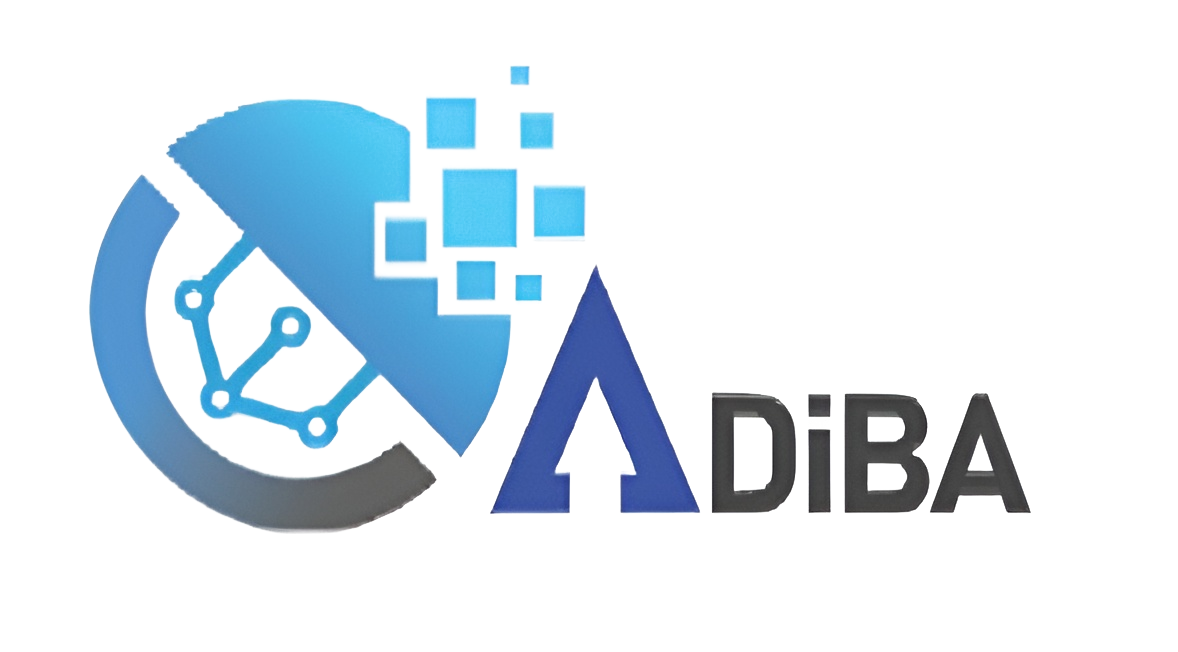
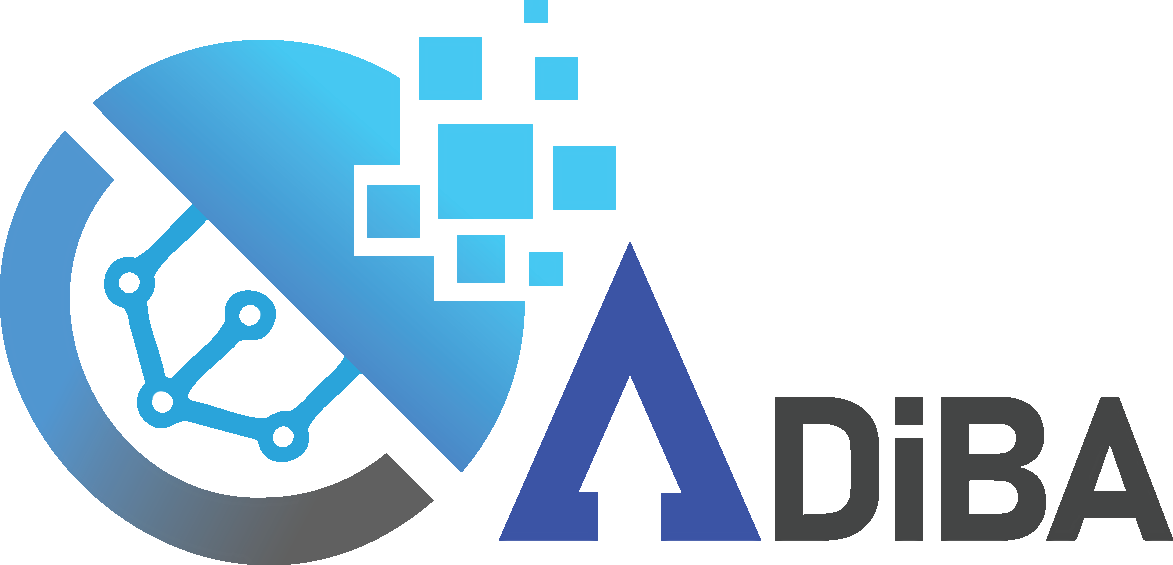
rework child key props and next/image issue

diff --git a/frontend/src/pages/analytics-product-modeling.js b/frontend/src/pages/analytics-product-modeling.js
@@ -1,4 +1,4 @@
-import { Link, Paper, TableBody, TableCell, TableContainer, TableHead, TableRow, Typography } from "@mui/material";
+import { Link, Paper, Table, TableBody, TableCell, TableContainer, TableHead, TableRow, Typography } from "@mui/material";
 import { Box } from "@mui/system";
 import Head from "next/head";
 import { DashboardLayout } from "../components/dashboard-layout"
@@ -106,42 +106,41 @@ const Page = () => {
                 }}
             >
                 <TableContainer component={Paper}>
-                    <TableHead>
-                        {label.map((item) => {
-                            return (
-                                <TableCell>
-                                    {item}
-                                </TableCell>
-                            )
-                        })}
-                    </TableHead>
-                    {data.map((item) => {
+                    <Table>
+                        <TableHead>
+                            <TableRow>
+                                {label.map((item, index) => {
+                                    return (
+                                        <TableCell key={`label_${index}`}>
+                                            {item}
+                                        </TableCell>
+                                    )
+                                })}
+                            </TableRow>
+                        </TableHead>
+                        <TableBody>
+                            {data.map((item, id) => {
 
-                        const maxRows = Math.max(item.subtask.length, item.detail.length, item.template.length);
-                        console.log(maxRows)
-                        const detailSpan = Math.ceil(maxRows / item.detail.length);
-                        const detailIndex = 1;
+                                const maxRows = Math.max(item.subtask.length, item.detail.length, item.template.length);
+                                return (
 
-                        return (
-                            <>
-                                {
                                     (item.subtask.length == maxRows) ? (
                                         item.subtask.map((subtask, index) => (
-                                            <TableRow>
+                                            <TableRow key={`row_${index}`}>
                                                 {(index == 0) ? (
-                                                    <TableCell rowSpan={maxRows} sx={{verticalAlign:'top'}}>
+                                                    <TableCell key={`task_${id}_${index}`} rowSpan={maxRows} sx={{ verticalAlign: 'top' }}>
                                                         <Typography gutterBottom fontSize={14}>
                                                             {item.task}
                                                         </Typography>
                                                     </TableCell>
                                                 ) : null}
-                                                <TableCell sx={{verticalAlign:'top'}}>
+                                                <TableCell key={`subtask_${id}_${index}`} sx={{ verticalAlign: 'top' }}>
                                                     <Typography gutterBottom fontSize={14}>
                                                         {subtask}
                                                     </Typography>
                                                 </TableCell>
                                                 {(index < item.detail.length) ? (
-                                                    <TableCell hover sx={{verticalAlign:'top'}}>
+                                                    <TableCell key={`detail_${id}_${index}`} sx={{ verticalAlign: 'top' }}>
                                                         <Typography gutterBottom fontSize={14}>
                                                             {item.detail[index]}
                                                         </Typography>
@@ -149,7 +148,7 @@ const Page = () => {
                                                 ) : (<TableCell>
                                                 </TableCell>)}
                                                 {(index < item.template.length) ? (
-                                                    <TableCell sx={{verticalAlign:'top'}}>
+                                                    <TableCell key={`template_${id}_${index}`} sx={{ verticalAlign: 'top' }}>
                                                         <Link>
                                                             <Typography gutterBottom fontSize={14}>
                                                                 {item.template[index]}
@@ -162,29 +161,29 @@ const Page = () => {
                                         ))
                                     ) : (item.detail.length == maxRows) ? (
                                         item.detail.map((detail, index) => (
-                                            <TableRow>
+                                            <TableRow key={`row_${index}`}>
                                                 {(index == 0) ? (
-                                                    <TableCell rowSpan={maxRows}  sx={{verticalAlign:'top'}}>
+                                                    <TableCell key={`task_${id}_${index}`} rowSpan={maxRows} sx={{ verticalAlign: 'top' }}>
                                                         <Typography gutterBottom fontSize={14}>
                                                             {item.task}
                                                         </Typography>
                                                     </TableCell>
                                                 ) : null}
                                                 {(index < item.subtask.length) ? (
-                                                    <TableCell  sx={{verticalAlign:'top'}}>
+                                                    <TableCell key={`subtask_${id}_${index}`} sx={{ verticalAlign: 'top' }}>
                                                         <Typography gutterBottom fontSize={14}>
                                                             {item.subtask[index]}
                                                         </Typography>
                                                     </TableCell>
                                                 ) : (<TableCell>
                                                 </TableCell>)}
-                                                <TableCell  sx={{verticalAlign:'top'}}>
-                                                    <Typography gutterBottom fontSize={14}>
+                                                <TableCell sx={{ verticalAlign: 'top' }}>
+                                                    <Typography key={`detail_${id}_${index}`} gutterBottom fontSize={14}>
                                                         {detail}
                                                     </Typography>
                                                 </TableCell>
                                                 {(index < item.template.length) ? (
-                                                    <TableCell  sx={{verticalAlign:'top'}}>
+                                                    <TableCell key={`template_${id}_${index}`} sx={{ verticalAlign: 'top' }}>
                                                         <Link>
                                                             <Typography gutterBottom fontSize={14}>
                                                                 {item.template[index]}
@@ -199,16 +198,16 @@ const Page = () => {
                                     ) :
                                         (item.template.length == maxRows) ? (
                                             item.template.map((template, index) => (
-                                                <TableRow>
+                                                <TableRow key={`row_${index}`}>
                                                     {(index == 0) ? (
-                                                        <TableCell rowSpan={maxRows}  sx={{verticalAlign:'top'}}>
+                                                        <TableCell key={`task_${id}_${index}`} rowSpan={maxRows} sx={{ verticalAlign: 'top' }}>
                                                             <Typography gutterBottom fontSize={14}>
                                                                 {item.task}
                                                             </Typography>
                                                         </TableCell>
                                                     ) : null}
                                                     {(index < item.subtask.length) ? (
-                                                        <TableCell  sx={{verticalAlign:'top'}}>
+                                                        <TableCell key={`subtask_${id}_${index}`} sx={{ verticalAlign: 'top' }}>
                                                             <Typography gutterBottom fontSize={14}>
                                                                 {item.subtask[index]}
                                                             </Typography>
@@ -216,14 +215,14 @@ const Page = () => {
                                                     ) : (<TableCell>
                                                     </TableCell>)}
                                                     {(index < item.detail.length) ? (
-                                                        <TableCell  sx={{verticalAlign:'top'}}>
+                                                        <TableCell key={`detail_${id}_${index}`} sx={{ verticalAlign: 'top' }}>
                                                             <Typography gutterBottom fontSize={14}>
                                                                 {item.detail[index]}
                                                             </Typography>
                                                         </TableCell>
                                                     ) : (<TableCell>
                                                     </TableCell>)}
-                                                    < TableCell  sx={{verticalAlign:'top'}} >
+                                                    <TableCell key={`template_${id}_${index}`} sx={{ verticalAlign: 'top' }} >
                                                         <Link>
                                                             <Typography gutterBottom fontSize={14}>
                                                                 {template}
@@ -232,59 +231,10 @@ const Page = () => {
                                                     </TableCell>
                                                 </TableRow>
                                             ))
-                                        ) : null}
-                                {/* <TableRow>
-                                    <TableCell rowSpan={maxRows}>
-                                        <Typography>
-                                            {item.task}
-                                        </Typography>
-                                    </TableCell>
-                                    <TableCell>
-                                        <Typography>
-                                            {item.subtask[0]}
-                                        </Typography>
-                                    </TableCell>
-                                    <TableCell>
-                                        <Typography>
-                                            {item.detail[0]}
-                                        </Typography>
-                                    </TableCell>
-                                    <TableCell>
-                                        {item.template.map((template) => (
-                                            <Link>
-                                                <Typography>
-                                                    {template}
-                                                </Typography>
-                                            </Link>
-                                        )
-                                        )}
-                                    </TableCell>
-                                </TableRow>
-                                {item.subtask.slice(1).map((subtask, index) => {
-                                    console.log(item.detail[index + 1])
-
-                                    return (
-                                        <>
-                                            <TableRow>
-                                                <TableCell>
-                                                    {subtask}
-                                                </TableCell>
-                                                {(index < (item.detail.length)) ?
-                                                    (
-                                                        <TableCell>
-                                                            {item.detail[index + 1]}
-                                                        </TableCell>
-                                                    ) : null
-                                                }
-                                            </TableRow>
-
-                                        </>
-                                    )
-                                })} */}
-
-                            </>
-                        )
-                    })}
+                                        ) : null)
+                            })}
+                        </TableBody>
+                    </Table>
                 </TableContainer>
             </Box>
         </>

diff --git a/frontend/src/pages/crawler.js b/frontend/src/pages/crawler.js
@@ -92,7 +92,7 @@ const Page = () => {
                 pathname: "/retrain",
                 query: {
                     document: JSON.stringify(result.documents),
-                    queryArray:[...queryArray]
+                    queryArray: [...queryArray]
                 }
             }
         )
@@ -340,7 +340,7 @@ const Page = () => {
                                             onClick={handleSubmit}
                                             disabled={queryArray.length < 1 || url.length < 1 || loading}
                                             type="submit"
-                                           
+
                                         >
                                             {loading ? "Searching" : "Submit"}
                                         </Button>
@@ -406,25 +406,20 @@ const Page = () => {
                                             </TextField>
                                         </Box>
                                         {queryArray.map((query) => (
-                                            <Box
-                                                component="div"
+                                            <Chip
+                                                key={query}
+                                                label={query}
+                                                variant="filled"
                                                 sx={{
-                                                    display: 'inline',
-                                                }} >
-                                                <Chip
-                                                    label={query}
-                                                    variant="filled"
-                                                    sx={{
-                                                        m: '2px',
-                                                        p: '2px',
-                                                    }}
-                                                    onDelete={() => {
-                                                        removeQuery(query)
-                                                    }}
-                                                >
+                                                    m: '2px',
+                                                    p: '2px',
+                                                }}
+                                                onDelete={() => {
+                                                    removeQuery(query)
+                                                }}
+                                            >
 
-                                                </Chip>
-                                            </Box>
+                                            </Chip>
 
                                         ))}
                                         <Box display="flex" paddingY='20px' >
@@ -455,7 +450,7 @@ const Page = () => {
                                                                 removeFile();
                                                             }}
                                                         >
-                                                            < RemoveIcon color='primary'/>
+                                                            < RemoveIcon color='primary' />
                                                         </IconButton>
                                                     </Box>
                                                 </Box>

diff --git a/frontend/src/pages/home.js b/frontend/src/pages/home.js
@@ -284,6 +284,7 @@ const Comp = (props) => {
             {
                 positions.map((item, index) => (
                     <Box
+                        key={`button_${index}`}
                         sx={{
                             position: 'absolute',
                             bottom: `${height / 2 - 80 / 2 + item.y * radius + item.offset.y}px`,
@@ -312,8 +313,6 @@ const Comp = (props) => {
 }
 Comp.propTypes = {
     children: PropTypes.node,
-    height: PropTypes.number.isRequired,
-    width: PropTypes.number.isRequired,
     items: PropTypes.array.isRequired,
     buttonSize: PropTypes.number.isRequired,
     icon: PropTypes.node
@@ -336,7 +335,7 @@ const Page = () => {
                     alignItems: "center",
                     justifyContent: 'center',
                     paddingTop: '70px',
-                    margin:'auto',
+                    margin: 'auto',
                     height: '100%',
                     width: '100%'
                 }}
@@ -490,14 +489,13 @@ const Page = () => {
                     <Box
                         sx={{
                             height: 80,
-                            width: 120,
+                            width: 160,
                             marginLeft: '35px'
                         }}
                     >
                         <ButtonWithText height={80} width={160} iconSize={60} icon={<SupervisedUserCircleIcon sx={{ color: 'white' }}></SupervisedUserCircleIcon>} text="Data Product Enculturation" iconPosition="left" />
                     </Box>
                 </Box>
-
             </Box>
         </>
     )

diff --git a/frontend/src/components/datawrangling/answers.js b/frontend/src/components/datawrangling/answers.js
@@ -33,8 +33,8 @@ export const Answer = (props) => {
                     </AccordionSummary>
                     <AccordionDetails>
                         <Box height="300px" overflow="scroll">
-                            {document.map((doc) => (
-                                <Box marginBottom="15px">
+                            {document.map((doc, index) => (
+                                <Box marginBottom="15px" key={doc.id}>
                                     <Typography sx={{overflowWrap: "anywhere"}} variant='body1'>
                                         {doc["content"]}
                                     </Typography>
@@ -53,14 +53,14 @@ export const Answer = (props) => {
                     </AccordionSummary>
 
                     <AccordionDetails>
-                        {answers.map((ans) => (
-
-                            <Box sx={{ height: 400, width: '100%' }}>
+                        {answers.map((ans, index) => (
+                            <Box
+                            key={`answer_${index}`} 
+                            sx={{ height: 400, width: '100%' }}>
                                 <Typography variant='body1'>
                                     {ans["query"]}
                                 </Typography >
                                 <DataGrid
-                                   
                                     pageSize={5}
                                     rows={ans["answers"]}
                                     columns={column}

diff --git a/frontend/src/components/dashboard-navbar.js b/frontend/src/components/dashboard-navbar.js
@@ -2,14 +2,11 @@ import { useRef, useState } from 'react';
 import Link from 'next/link';
 import PropTypes from 'prop-types';
 import styled from '@emotion/styled';
-import { AppBar, Avatar, Badge, Box, IconButton, Toolbar, Tooltip, Button } from '@mui/material';
+import { AppBar, Avatar, Box, IconButton, Toolbar} from '@mui/material';
 import MenuIcon from '@mui/icons-material/Menu';
-import SearchIcon from '@mui/icons-material/Search';
-import { Bell as BellIcon } from '../icons/bell';
 import { UserCircle as UserCircleIcon } from '../icons/user-circle';
-import { Users as UsersIcon } from '../icons/users';
 import { AccountPopover } from './account-popover';
-import { minWidth } from '@mui/system';
+import Image from 'next/image';
 
 const DashboardNavbarRoot = styled(AppBar)(({ theme }) => ({
   backgroundColor: theme.palette.background.paper,
@@ -53,7 +50,7 @@ export const DashboardNavbar = (props) => {
               passHref
             >
               <a>
-                <img src='adiba.png' width={95} />
+                <Image src='/adiba.png' width={85} height={85/2} />
               </a>
             </Link>
           </Box>

diff --git a/frontend/src/components/dashboard-sidebar.js b/frontend/src/components/dashboard-sidebar.js
@@ -3,9 +3,9 @@ import Link from 'next/link';
 import { useRouter } from 'next/router';
 import PropTypes from 'prop-types';
 import { Box, Button, Divider, Drawer, imageListClasses, ListItemText, Typography, useMediaQuery } from '@mui/material';
-import { Logo } from './logo';
 import { NavItem } from './nav-item';
 import { MulItem } from './nav_item_mul';
+import Image from 'next/image';
 
 const menuItems =
   [
@@ -91,7 +91,7 @@ export const DashboardSidebar = (props) => {
             passHref
           >
             <a>
-              <img src='adiba.png' width={200} />
+              <Image src='/adiba.png' width={200} height={200/2} />
             </a>
           </Link>
         </Box>
